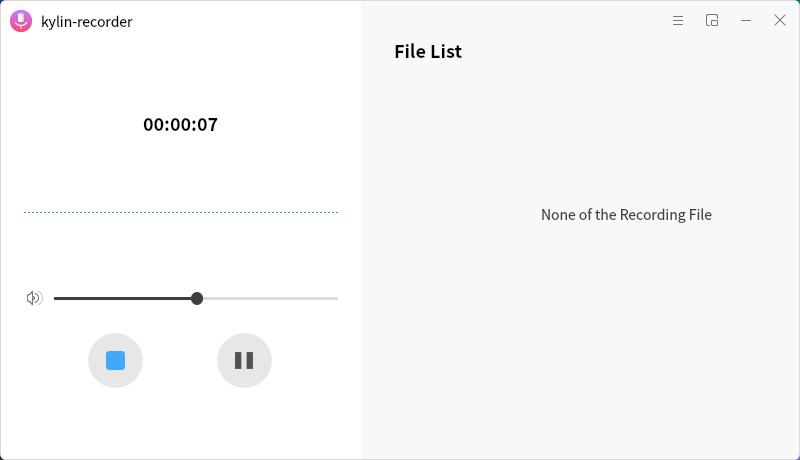
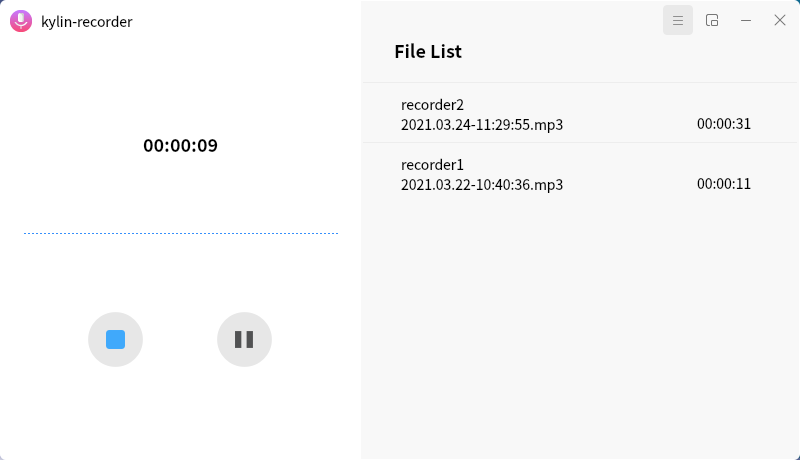
* modify for kylin-recorder's interface

diff --git a/data/guide/tools/zh_CN/index.md b/data/guide/tools/zh_CN/index.md
@@ -105,7 +105,7 @@
 
 点击录音按钮开始录音，实时生成波形图。
 
-拖动声音滑块，可调整声音大小；录音过程中，点击![](image/icon21.png)，暂停/继续录音；点击![](image/icon20.png)，即完成本次录音，默认存储路径为个人的音乐目录。
+录音过程中，点击![](image/icon21.png)，暂停/继续录音；点击![](image/icon20.png)，即完成本次录音，默认存储路径为个人的音乐目录。
 
 ![图 13 录音过程-big](image/13.png)
 

diff --git a/data/guide/tools/en_US/index.md b/data/guide/tools/en_US/index.md
@@ -97,7 +97,7 @@ Kylin Recorder provides a simple audio recording function, as shown in Fig 10.
 
 Click recording icon to enter recording interface.
 
-Drag the sound slider to adjust the volume. Click ![](image/icon21.png) to pause/continue during recording. Click ![](image/icon20.png) to finish recording.
+Click ![](image/icon21.png) to pause/continue during recording. Click ![](image/icon20.png) to finish recording.
 
 ![Fig 11 Recording-big](image/11.png)
 
